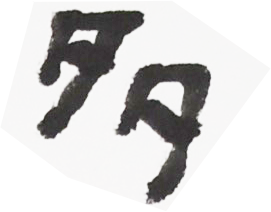
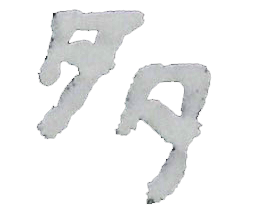
add ink

Changed region(s): [[0.1181, 0.0283, 0.5314, 0.6792], [0.4133, 0.283, 0.797, 0.9623]]

diff --git a/src/Anim/Ink/Ink.cpp b/src/Anim/Ink/Ink.cpp
@@ -1,0 +1,89 @@
+//
+//  Ink.cpp
+//  Entrance
+//
+//  Created by Akira Hayasaka on 7/11/16.
+//
+//
+
+#include "Ink.hpp"
+
+void Ink::setup()
+{
+    scrn.allocate(APP_W, APP_H);
+    clearScrn();
+
+    canvasRatio = 2.0;
+    canvasW = APP_W / canvasRatio;
+    canvasH = APP_H / canvasRatio;
+    inkSim.setup(canvasW, canvasH);
+    Global::kyoInkUniforms = inkSim.getUniformInfo();
+    
+    ofDirectory dir("imgs/ink");
+    dir.listDir();
+    for (int i = 0; i < dir.size(); i++)
+    {
+        ofFile f = dir.getFile(i);
+        if (f.getExtension() == "jpg" || f.getExtension() == "png")
+        {
+            ofTexture t;
+            texs.push_back(t);
+            ofLoadImage(texs.back(), f.getAbsolutePath());
+        }
+    }
+    dir.close();
+    
+    ofAddListener(Global::inkEvent, this, &Ink::onInkEvent);
+    ofAddListener(Global::clearInkEvent, this, &Ink::onClearInkEvent);
+}
+
+void Ink::update()
+{
+    inkSim.update();
+    
+    scrn.begin();
+    ofClear(255);
+    ofPushMatrix();
+    ofScale(canvasRatio, canvasRatio);
+    inkSim.draw();
+    ofPopMatrix();
+    scrn.end();
+}
+
+void Ink::onInkEvent()
+{
+    ofColor c = ofColor(ofRandom(255), ofRandom(255), ofRandom(255));
+    int idx = ofRandom(texs.size());
+    
+    ofSetRectMode(OF_RECTMODE_CENTER);
+    
+    float rdm = ofRandom(0.8, 1.5);
+    inkSim.begin();
+    ofPushMatrix();
+    ofTranslate(ofRandom(300 / canvasRatio, APP_W / canvasRatio - 300 / canvasRatio),
+                ofRandom(150 / canvasRatio, APP_H / canvasRatio - 150 / canvasRatio));
+    ofRotateZ(ofRandom(360));
+    ofScale(1,-1,1);
+    ofPushStyle();
+    ofSetColor(getInkColor(c.getHueAngle(), 255, 255));
+    texs.at(idx).draw(0, 0, texs.at(idx).getWidth() / pow(canvasRatio, rdm), texs.at(idx).getHeight() / pow(canvasRatio, rdm));
+    ofPopStyle();
+    ofPopMatrix();
+    inkSim.end();
+    
+    ofSetRectMode(OF_RECTMODE_CORNER);
+    
+    inkSim.update();
+}
+
+void Ink::onClearInkEvent()
+{
+    inkSim.clear();
+}
+
+void Ink::clearScrn()
+{
+    scrn.begin();
+    ofClear(255);
+    scrn.end();
+}

diff --git a/src/ofApp.cpp b/src/ofApp.cpp
@@ -30,7 +30,7 @@ void ofApp::setup()
     
     content.setup();
     
-    gui.setup();
+    gui.setup(Global::kyoInkUniforms);
     gui.hide();
     
     ofNotifyEvent(Global::tickEvent);
@@ -119,12 +119,32 @@ void ofApp::keyPressed(int key)
     }
     if (key == 'p')
     {
+//        vector<ofEvent<void> > evnts;
+//        evnts.push_back(Global::portraitOnePlaceEvent);
+//        evnts.push_back(Global::portraitHorizEvent);
+//        evnts.push_back(Global::portraitVertEvent);
+//        evnts.push_back(Global::flyerFishLikeEvent);
+//        evnts.push_back(Global::flyerWavyEvent);
+//        evnts.push_back(Global::flyerStraightThingEvent);
+//        ofRandomize(evnts);
+//        ofNotifyEvent(evnts.front());
+        
 //        ofNotifyEvent(Global::portraitOnePlaceEvent);
 //        ofNotifyEvent(Global::portraitHorizEvent);
-//        ofNotifyEvent(Global::portraitVertEvent);
-//        ofNotifyEvent(Global::flyerFishLikeEvent);
-//        ofNotifyEvent(Global::flyerWavyEvent);
+        ofNotifyEvent(Global::portraitVertEvent);
+        ofNotifyEvent(Global::flyerFishLikeEvent);
+        ofNotifyEvent(Global::flyerWavyEvent);
         ofNotifyEvent(Global::flyerStraightThingEvent);
+        ofNotifyEvent(Global::inkEvent);
+    }
+    if (key == 'c')
+    {
+        ofNotifyEvent(Global::clearInkEvent);
+    }
+    if (key == 'm')
+    {
+        for (int i = 0; i < 10; i++)
+            ofNotifyEvent(Global::inkEvent);
     }
 }
 void ofApp::keyReleased(int key){}

diff --git a/src/Content.cpp b/src/Content.cpp
@@ -75,7 +75,7 @@ void Content::setup()
     }
     
     mouth.setup("imgs/seq/mouth/1", "imgs/seqBlendTex");
-    
+    ink.setup();
     cutout.setup();
     
     bNeedTickUpdate = false;
@@ -86,6 +86,7 @@ void Content::setup()
 void Content::update()
 {
     mouth.update();
+    ink.update();
     cutout.update();
     
     if (bNeedTickUpdate)
@@ -107,9 +108,10 @@ void Content::genFullScreenContent()
     
     blendOutput.begin();
     blendOutput.setUniformTexture("content", stopMotionContent.getTexture(), 0);
-    blendOutput.setUniformTexture("cutout", cutout.getTexture(), 1);
-    blendOutput.setUniformTexture("bg", bg.getTexture(), 2);
-    blendOutput.setUniformTexture("bgMask", bgMask.getTexture(), 3);
+    blendOutput.setUniformTexture("ink", ink.getTexture(), 1);
+    blendOutput.setUniformTexture("cutout", cutout.getTexture(), 2);
+    blendOutput.setUniformTexture("bg", bg.getTexture(), 3);
+    blendOutput.setUniformTexture("bgMask", bgMask.getTexture(), 4);
     drawPlane(APP_W, APP_H);
     blendOutput.end();
     
@@ -118,7 +120,7 @@ void Content::genFullScreenContent()
 
 void Content::drawLeft()
 {
-    fullScreenResult.getTexture().drawSubsection(0, 0, PROJ_W, PROJ_H, 0, 0);
+    cutout.getTexture().drawSubsection(0, 0, PROJ_W, PROJ_H, 0, 0);
 }
 
 void Content::drawRight()

diff --git a/src/GUI.cpp b/src/GUI.cpp
@@ -8,7 +8,7 @@
 
 #include "GUI.hpp"
 
-void GUI::setup()
+void GUI::setup(ofPtr<UniformInfos> kyoInkUniforms)
 {
     // kinect device & contour gui
     kinectGUI.setup("kinect", "settings/kinect.xml");
@@ -72,6 +72,13 @@ void GUI::setup()
     ofSetColor(ofColor::pink, 100);
     ofDrawRectangle(0, 0, kinectFbo.getWidth(), kinectFbo.getHeight());
     kinectFbo.end();
+    
+    // kyo ink
+    this->kyoInkUniforms = kyoInkUniforms;
+    kyoInkGui.setDefaultWidth(1000);
+    kyoInkGui.setup(kyoInkUniforms->parameters, "settings/uniforms.xml");
+    kyoInkGui.loadFromFile("settings/uniforms.xml");
+    kyoInkGui.setPosition(kinectGUI.getPosition().x, kinectGUI.getPosition().y + kinectGUI.getHeight() + 10);
 }
 
 void GUI::update()
@@ -195,6 +202,9 @@ void GUI::draw()
         }
         
         kinectGUI.draw();
+        
+        // kyo ink gui
+        kyoInkGui.draw();
     }
 }
 

diff --git a/src/Utils/Globals.hpp b/src/Utils/Globals.hpp
@@ -12,6 +12,7 @@
 #include "ofMain.h"
 #include "ofxCv.h"
 #include "ofxBox2d.h"
+#include "ofxInkSim.h"
 #include "Kinect.hpp"
 
 enum APP_STATE
@@ -47,6 +48,8 @@ namespace Global
     
     extern ofxCv::ContourFinder globalContourFinder;
     
+    extern ofPtr<UniformInfos> kyoInkUniforms;
+    
     // shaders
     extern ofShader chromaKey;
     extern ofShader whitize;
@@ -63,6 +66,9 @@ namespace Global
     extern ofEvent<void> flyerFishLikeEvent;
     extern ofEvent<void> flyerWavyEvent;
     extern ofEvent<void> flyerStraightThingEvent;
+    
+    extern ofEvent<void> inkEvent;
+    extern ofEvent<void> clearInkEvent;
 }
 
 #endif /* Globals_hpp */

diff --git a/src/GUI.hpp b/src/GUI.hpp
@@ -11,6 +11,7 @@
 
 #include "ofMain.h"
 #include "ofxGui.h"
+#include "ofxInkSim.h"
 #include "Constants.h"
 #include "Globals.hpp"
 #include "Warper.hpp"
@@ -19,7 +20,7 @@ class GUI
 {
 public:
     
-    void setup();
+    void setup(ofPtr<UniformInfos> kyoInkUniforms);
     void update();
     void draw();
     
@@ -52,7 +53,11 @@ private:
     Warper kinectWarper;
     ofFbo kinectFbo;
     vector<ofPolyline> contours;    
-    vector<ofPath> contourPaths;    
+    vector<ofPath> contourPaths;
+    
+    // kyo ink
+    ofxPanel kyoInkGui;
+    ofPtr<UniformInfos> kyoInkUniforms;
 };
 
 #endif /* GUI_hpp */

diff --git a/src/Anim/Ink/Ink.hpp b/src/Anim/Ink/Ink.hpp
@@ -1,0 +1,38 @@
+//
+//  Ink.hpp
+//  Entrance
+//
+//  Created by Akira Hayasaka on 7/11/16.
+//
+//
+
+#ifndef Ink_hpp
+#define Ink_hpp
+
+#include "ofMain.h"
+#include "ofxInkSim.h"
+#include "Constants.h"
+#include "Globals.hpp"
+
+class Ink
+{
+public:
+    
+    void setup();
+    void update();
+    ofTexture& getTexture() { return scrn.getTexture(); }
+    
+private:
+    
+    void clearScrn();
+    void onInkEvent();
+    void onClearInkEvent();
+    
+    ofFbo scrn;
+    
+    ofxInkSim inkSim;
+    float canvasRatio, canvasW, canvasH;
+    vector<ofTexture> texs;
+};
+
+#endif /* Ink_hpp */

diff --git a/src/Utils/Globals.cpp b/src/Utils/Globals.cpp
@@ -29,6 +29,8 @@ namespace Global
     
     ofxCv::ContourFinder globalContourFinder;
     
+    ofPtr<UniformInfos> kyoInkUniforms;
+    
     // shaders
     ofShader chromaKey;
     ofShader whitize;
@@ -45,4 +47,7 @@ namespace Global
     ofEvent<void> flyerFishLikeEvent;
     ofEvent<void> flyerWavyEvent;
     ofEvent<void> flyerStraightThingEvent;
+    
+    ofEvent<void> inkEvent;
+    ofEvent<void> clearInkEvent;
 }

diff --git a/src/Content.hpp b/src/Content.hpp
@@ -11,6 +11,7 @@
 
 #include "ofMain.h"
 #include "Mouth.hpp"
+#include "Ink.hpp"
 #include "CutoutAnim.hpp"
 
 class Content
@@ -42,6 +43,7 @@ private:
     ofPolyline b2dEdge;
     
     Mouth mouth;
+    Ink ink;
     
     CutoutAnim cutout;
 };

diff --git a/src/CutoutAnim/Flyer/Flyer.cpp b/src/CutoutAnim/Flyer/Flyer.cpp
@@ -42,11 +42,6 @@ void Flyer::onTickEvent()
     wavy.draw();
     strtThing.draw();
     
-    ofPushStyle();
-    ofSetColor(ofColor::red);
-    fishLike.getMotionLine().draw();
-    ofPopStyle();
-    
     scrn.end();
 }
 
